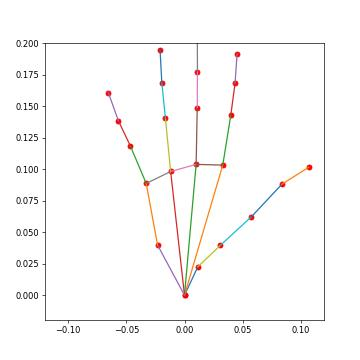
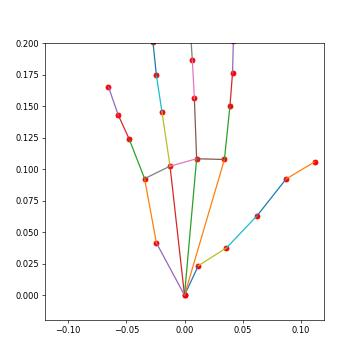
Still fixing and arranging some things. Need to improve some things because simultaneous robots didn't work so nice

Changed region(s): [[0.3972, 0.1222, 0.6722, 0.7028], [0.5194, 0.4278, 0.8861, 0.7639], [0.275, 0.2139, 0.3972, 0.4889]]

diff --git a/src/beavr/utils/network.py b/src/beavr/utils/network.py
@@ -261,7 +261,6 @@ class ZMQButtonFeedbackSubscriber(threading.Thread):
         print('Closing the subscriber socket in {}:{}.'.format(self._host, self._port))
         self.socket.close()
         self.context.term()
-
 # Improved Pub/Sub classes with shared context
 class ZMQPublisherManager:
     """Centralized management of ZMQ publishers"""
@@ -301,145 +300,6 @@ class ZMQPublisherManager:
             publisher.close()
         self._publishers.clear()
 
-class ZMQSubscriberManager:
-    """Centralized management of ZMQ subscribers"""
-    _instance = None
-    _subscribers = {}  # (host, port) -> (socket, {topic -> callbacks})
-    
-    @classmethod
-    def get_instance(cls):
-        if cls._instance is None:
-            cls._instance = ZMQSubscriberManager()
-            cls._instance._start_listener_thread()
-        return cls._instance
-    
-    def subscribe(self, host, port, topic, callback):
-        """Subscribe to a topic with the given callback"""
-        key = (host, port)
-        
-        # Create socket if needed
-        if key not in self._subscribers:
-            socket = self._create_socket(host, port)
-            self._subscribers[key] = (socket, {})
-            print(f"Created new SUB socket connecting to {host}:{port}")
-        
-        # Add subscription
-        socket, topics = self._subscribers[key]
-        if topic not in topics:
-            topics[topic] = []
-            socket.setsockopt_string(zmq.SUBSCRIBE, topic)
-        
-        # Add callback
-        topics[topic].append(callback)
-        
-        return len(topics[topic]) - 1  # Return callback index
-    
-    def unsubscribe(self, host, port, topic, callback_idx=None):
-        """Unsubscribe from a topic, optionally specifying which callback"""
-        key = (host, port)
-        if key not in self._subscribers:
-            return False
-            
-        socket, topics = self._subscribers[key]
-        if topic not in topics:
-            return False
-            
-        if callback_idx is None:
-            # Remove all callbacks
-            topics.pop(topic)
-            if not topics:  # No more topics
-                socket.close()
-                self._subscribers.pop(key)
-        else:
-            # Remove specific callback
-            if callback_idx < len(topics[topic]):
-                topics[topic].pop(callback_idx)
-                if not topics[topic]:  # No more callbacks for this topic
-                    topics.pop(topic)
-                    if not topics:  # No more topics
-                        socket.close()
-                        self._subscribers.pop(key)
-        
-        return True
-    
-    def _start_listener_thread(self):
-        """Start background thread to listen for messages"""
-        import threading
-        self._running = True
-        self._thread = threading.Thread(target=self._listener_thread, daemon=True)
-        self._thread.start()
-    
-    def _listener_thread(self):
-        """Background thread that listens for all subscribed messages"""
-        import select
-        
-        while self._running:
-            try:
-                # Get list of sockets to poll
-                sockets = [s for s, _ in self._subscribers.values()]
-                if not sockets:
-                    time.sleep(0.01)
-                    continue
-                
-                # Poll with timeout
-                ready_sockets, _, _ = select.select(sockets, [], [], 0.01)
-                
-                # Process messages from ready sockets
-                for socket in ready_sockets:
-                    # Find which key this socket belongs to
-                    for key, (s, topics) in self._subscribers.items():
-                        if s is socket:
-                            try:
-                                message = socket.recv(zmq.NOBLOCK)
-                                self._process_message(key, message, topics)
-                            except zmq.Again:
-                                pass  # No message available
-                            break
-            except Exception as e:
-                print(f"Error in ZMQ listener thread: {e}")
-                time.sleep(0.1)
-    
-    def _process_message(self, key, message, topics):
-        """Process a received message and dispatch to callbacks"""
-        try:
-            # Find topic separator
-            space_pos = message.find(b' ')
-            if space_pos <= 0:
-                return
-                
-            topic = message[:space_pos].decode('utf-8')
-            data = pickle.loads(message[space_pos+1:])
-            
-            # Call matching callbacks
-            if topic in topics:
-                for callback in topics[topic]:
-                    try:
-                        callback(data)
-                    except Exception as e:
-                        print(f"Error in callback for topic {topic}: {e}")
-        except Exception as e:
-            print(f"Error processing message: {e}")
-    
-    def close_all(self):
-        """Close all subscribers"""
-        self._running = False
-        if hasattr(self, '_thread'):
-            self._thread.join(timeout=1.0)
-            
-        for key, (socket, _) in self._subscribers.items():
-            print(f"Closing subscriber socket at {key[0]}:{key[1]}")
-            socket.close()
-        self._subscribers.clear()
-
-    def _create_socket(self, host, port):
-        """Create a new SUB socket with CONFLATE set"""
-        socket = get_global_context().socket(zmq.SUB)
-        # Always set CONFLATE=1 to only keep latest message
-        socket.setsockopt(zmq.CONFLATE, 1)
-        socket.connect(f'tcp://{host}:{port}')
-        print(f"Created new SUB socket connecting to {host}:{port}")
-        return socket
-
 # Legacy-compatible wrapper classes
 class EnhancedZMQKeypointPublisher(ZMQKeypointPublisher):
     """Enhanced version that uses the centralized publisher manager"""
@@ -456,42 +316,46 @@ class EnhancedZMQKeypointPublisher(ZMQKeypointPublisher):
         # Individual publishers don't need to be stopped
         print('Publisher reference released.')
 
-class EnhancedZMQKeypointSubscriber:
-    """Enhanced version that uses the centralized subscriber manager"""
+# Direct ZMQ subscriber replacement for EnhancedZMQKeypointSubscriber
+class ZMQKeyPointSubscriber:
+    """Direct ZMQ subscriber for keypoints without complex management"""
     def __init__(self, host, port, topic):
         self._host, self._port, self._topic = host, port, topic
-        self._manager = ZMQSubscriberManager.get_instance()
-        self._last_received = None
-        self._callback_idx = self._manager.subscribe(host, port, topic, self._on_message)
+        self._init_subscriber()
         
         # Topic chars to remove for compatibility with old code
         self.strip_value = bytes("{} ".format(self._topic), 'utf-8')
         
-    def _on_message(self, data):
-        """Callback when a message is received - always updates to the latest value"""
-        self._last_received = data
+    def _init_subscriber(self):
+        self.context = get_global_context()
+        self.socket = self.context.socket(zmq.SUB)
+        self.socket.setsockopt(zmq.CONFLATE, 1)
+        self.socket.connect(f'tcp://{self._host}:{self._port}')
+        self.socket.setsockopt_string(zmq.SUBSCRIBE, self._topic)
         
     def recv_keypoints(self, flags=None):
-        """Get the most recently received keypoints"""
-        # Return the latest value
-        result = self._last_received
-        
-        # For non-blocking calls, don't raise exceptions
-        if flags == zmq.NOBLOCK and result is None:
+        """Get keypoints with optional non-blocking behavior"""
+        try:
+            if flags is None:
+                raw_data = self.socket.recv()
+            else:
+                raw_data = self.socket.recv(flags)
+                
+            raw_array = raw_data.lstrip(self.strip_value)
+            return pickle.loads(raw_array)
+        except zmq.Again:
             return None
         
-        # For blocking calls, if no result yet, keep waiting by just returning None
-        # This is different from original behavior but should work with handshake patterns
-        return result
-        
     def stop(self):
-        """Unsubscribe from the topic"""
-        self._manager.unsubscribe(self._host, self._port, self._topic, self._callback_idx)
-        print('Subscriber reference released.')
+        """Close the subscriber socket"""
+        print(f'Closing the subscriber socket in {self._host}:{self._port}.')
+        self.socket.close()
+
+# For backward compatibility - used by existing code
+EnhancedZMQKeypointSubscriber = ZMQKeyPointSubscriber
 
 # Function to clean up all ZMQ resources (call on program exit)
 def cleanup_zmq_resources():
     """Clean up all ZMQ resources"""
     ZMQPublisherManager.get_instance().close_all()
-    ZMQSubscriberManager.get_instance().close_all()
     _GLOBAL_ZMQ_CONTEXT.term()

diff --git a/src/beavr/components/operators/xarm7_right.py b/src/beavr/components/operators/xarm7_right.py
@@ -7,7 +7,7 @@ from typing import Tuple
 
 from beavr.constants import *
 from beavr.utils.timer import FrequencyTimer
-from beavr.utils.network import EnhancedZMQKeypointSubscriber as ZMQKeypointSubscriber
+from beavr.utils.network import ZMQKeypointSubscriber
 from beavr.utils.network import EnhancedZMQKeypointPublisher as ZMQKeypointPublisher
 from beavr.utils.vectorops import *
 from .operator import Operator
@@ -40,7 +40,6 @@ class XArm7RightOperator(Operator):
         use_filter=True,
         arm_resolution_port = None,
         teleoperation_reset_port = None,
-        reset_publish_port = None,
         logging_config=None,
     ):
         # Basic initialization
@@ -151,6 +150,7 @@ class XArm7RightOperator(Operator):
     def _get_hand_frame(self):
         for _ in range(10):
             data = self._arm_transformed_keypoint_subscriber.recv_keypoints(flags=zmq.NOBLOCK)
+            print(data)
             if data is not None:
                 break
         if data is None:

diff --git a/src/beavr/components/operators/leap_pybullet.py b/src/beavr/components/operators/leap_pybullet.py
@@ -1,5 +1,5 @@
 from copy import deepcopy as copy
-from beavr.utils.network import EnhancedZMQKeypointSubscriber as ZMQKeypointSubscriber, EnhancedZMQKeypointPublisher as ZMQKeypointPublisher
+from beavr.utils.network import ZMQKeypointSubscriber, EnhancedZMQKeypointPublisher as ZMQKeypointPublisher
 from .operator import Operator
 from beavr.utils.timer import FrequencyTimer
 from beavr.constants import *

diff --git a/src/beavr/interfaces/leap_robot.py b/src/beavr/interfaces/leap_robot.py
@@ -6,7 +6,7 @@ import time
 from queue import Queue
 import traceback
 
-from beavr.utils.network import EnhancedZMQKeypointSubscriber as ZMQKeypointSubscriber, EnhancedZMQKeypointPublisher as ZMQKeypointPublisher
+from beavr.utils.network import ZMQKeypointSubscriber, EnhancedZMQKeypointPublisher as ZMQKeypointPublisher
 import time
 import zmq
 from beavr.utils.registry import GlobalRegistry

diff --git a/src/beavr/interfaces/xarm7_robot.py b/src/beavr/interfaces/xarm7_robot.py
@@ -1,6 +1,6 @@
 from beavr.controllers.xarm7_control import DexArmControl 
 from .robot import RobotWrapper
-from beavr.utils.network import EnhancedZMQKeypointSubscriber as ZMQKeypointSubscriber
+from beavr.utils.network import ZMQKeypointSubscriber
 from beavr.utils.network import EnhancedZMQKeypointPublisher as ZMQKeypointPublisher
 import numpy as np
 import time

diff --git a/src/beavr/components/operators/solvers/leap_solver.py b/src/beavr/components/operators/solvers/leap_solver.py
@@ -68,7 +68,7 @@ class LeapHandIKSolver:
         self.all_indices = self.fingertip_indices + self.tip_head_indices
         
         # Scale factor for transformations
-        self.scale_factor = 1.6
+        self.scale_factor = 1.4
         
         # Store last calculated joint angles to use as seed for next calculation
         self.last_joint_angles = None
